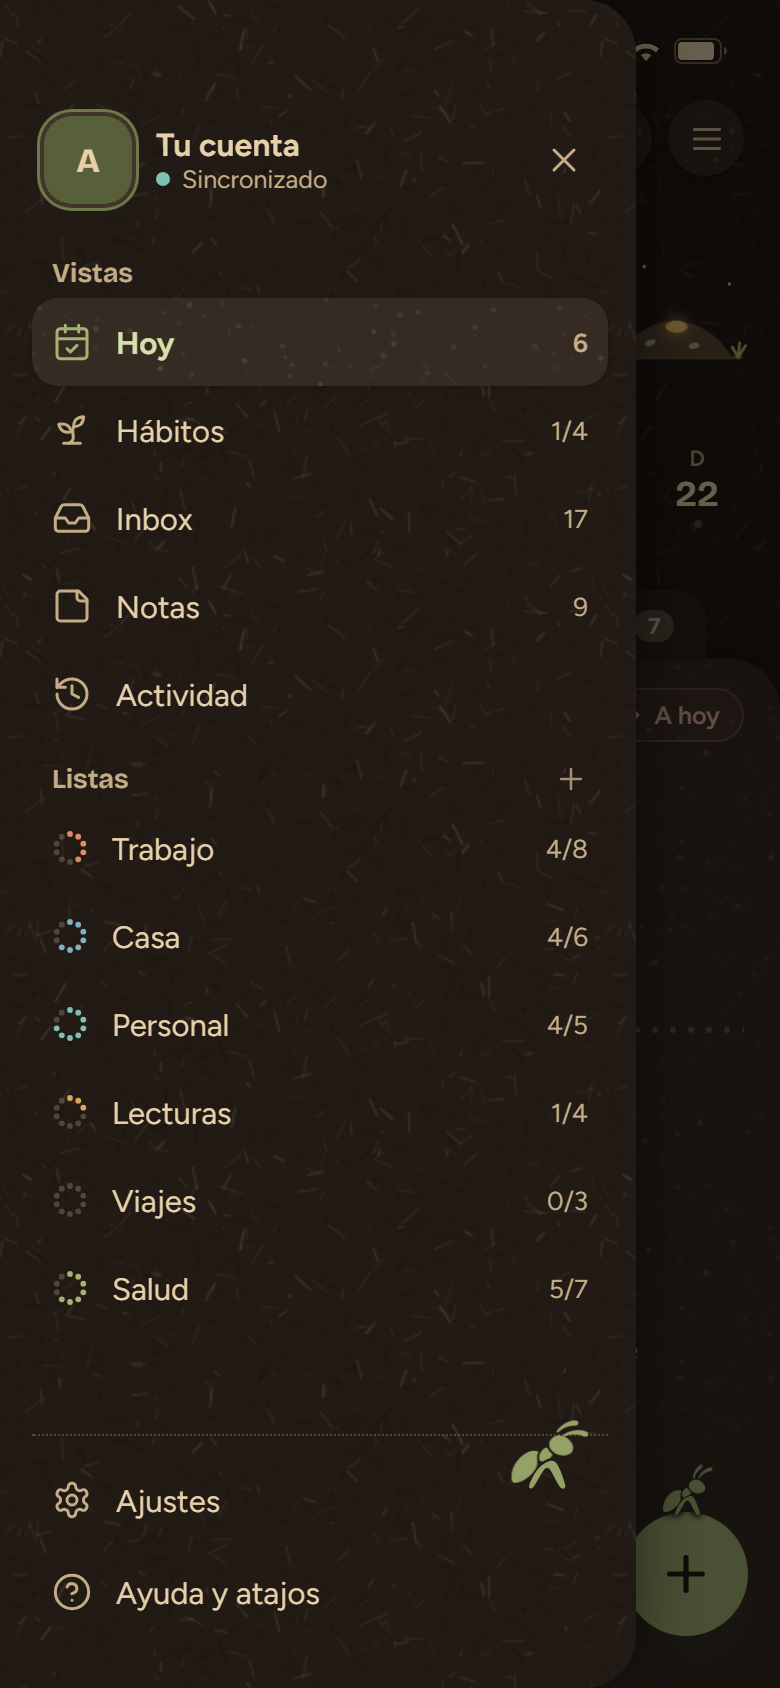
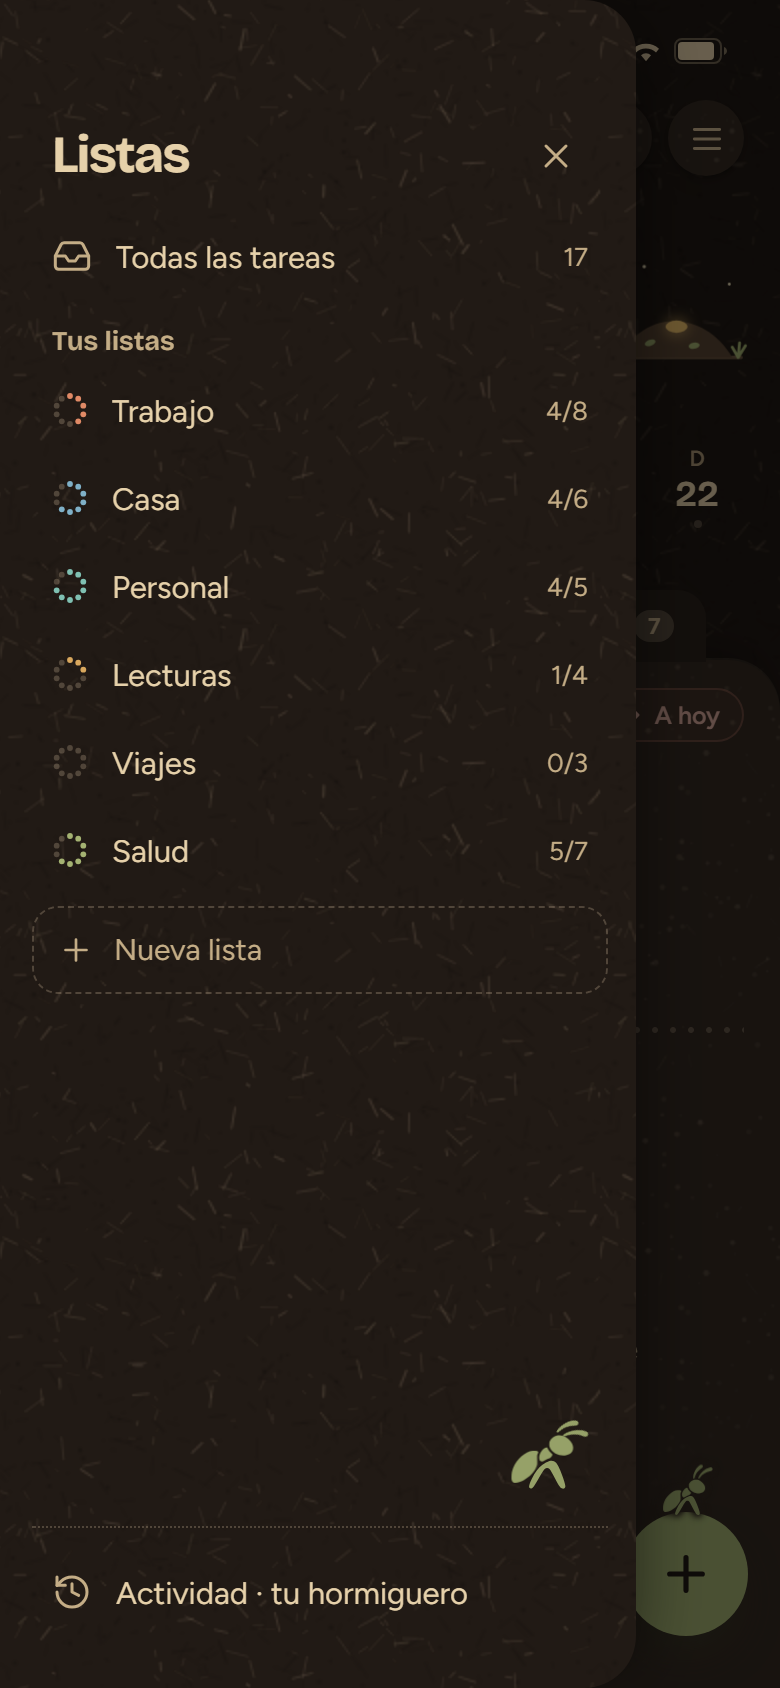
Docs: Ajustes con Apariencia y la hormiga; el menú móvil pasa a panel de listas

diff --git a/docs/disenos/hormiga/movil.html b/docs/disenos/hormiga/movil.html
@@ -486,6 +486,65 @@ a{color:inherit;text-decoration:none}
 .mn-hor{position:absolute;right:22px;bottom:96px;width:44px;height:44px;opacity:.9}
 .mn-hor .hormiga{width:100%;height:100%}
 
+/* ═══ Añadido el 25-nov-2026: Ajustes y Apariencia (móvil) ═══ */
+.aj-cab{display:flex;align-items:center;gap:10px;padding:6px 18px 0 16px}
+.aj-cab .m-tit{margin-top:0;font-size:34px}
+.aj-hoja{position:absolute;left:0;right:0;top:128px;bottom:0;padding:4px 16px 120px;border-radius:26px 26px 0 0;background-color:var(--hoja);background-image:var(--tex-hoja);overflow-y:auto;scrollbar-width:none}
+.aj-sec{margin-top:10px}
+.aj-sec .sec-tit{font-size:15px;color:var(--t2)}
+.aj-card{border-radius:18px;background:var(--hab-bg);border:1px solid var(--borde-s);padding:4px 14px}
+.aj-fila{display:flex;align-items:center;gap:12px;min-height:50px;font-size:15px;color:var(--t1)}
+.aj-fila+.aj-fila{border-top:1.6px dotted var(--punto)}
+.aj-fila>.ico{color:var(--t2)}
+.aj-fila small{display:block;font-size:12.5px;color:var(--t3);margin-top:1px;line-height:1.3}
+.aj-fila .det-valor{margin-left:auto}
+.aj-fila .sw{flex:none;margin-left:auto;position:relative;width:42px;height:25px;border-radius:999px;background:var(--o500);cursor:pointer;transition:background .2s}
+.aj-fila .sw::after{content:"";position:absolute;left:20px;top:3px;width:19px;height:19px;border-radius:50%;background:var(--sobre-acento);box-shadow:0 1px 2px rgba(0,0,0,.25);transition:left .2s}
+.aj-fila .sw.off{background:var(--punto)}
+.aj-fila .sw.off::after{left:3px;background:var(--card)}
+.seg{display:flex;padding:3px;border-radius:999px;background:var(--kraft-hover);border:1px solid var(--borde-s);margin:10px 0 6px}
+.seg span{flex:1;text-align:center;height:34px;line-height:34px;border-radius:999px;font-weight:600;font-size:13.5px;color:var(--t2);cursor:pointer}
+.seg span.on{background:var(--card);color:var(--t1);box-shadow:0 1px 2px rgba(var(--sombra-rgb),.18)}
+.acentos{display:flex;justify-content:space-between;padding:8px 2px 4px}
+.acento{display:flex;flex-direction:column;align-items:center;gap:5px;font-size:11.5px;color:var(--t2);cursor:pointer}
+.acento i{width:36px;height:36px;border-radius:50%;background:var(--c);display:grid;place-items:center;box-shadow:inset 0 0 0 1px rgba(0,0,0,.08)}
+.acento i svg{width:16px;height:16px;fill:none;stroke:#fff;stroke-width:3;stroke-linecap:round;stroke-linejoin:round;opacity:0}
+.acento.on i{box-shadow:0 0 0 2.5px var(--hoja),0 0 0 4.5px var(--c)}
+.acento.on i svg{opacity:1}
+.acento.on{color:var(--t1);font-weight:600}
+/* Vista previa con el acento elegido; la hormiga sigue en oliva (es la marca) */
+.prev{margin:6px 0 10px;border-radius:16px;background:var(--card);border:1px solid var(--borde-s);padding:10px 12px 12px;--a:var(--o500)}
+.prev .rastro-mini{display:block;width:100%;height:auto}
+.prev .tr-f{fill:none;stroke:var(--punto);stroke-width:4;stroke-linecap:round;stroke-dasharray:0 10}
+.prev .tr-h{fill:none;stroke:var(--a);stroke-width:5;stroke-linecap:round;stroke-dasharray:0 10}
+.prev-fila{display:flex;align-items:center;gap:10px;margin-top:6px;font-size:14.5px}
+.prev-fila .ck{width:20px;height:20px;border-radius:50%;background:var(--a);display:grid;place-items:center;flex:none}
+.prev-fila .ck svg{width:12px;height:12px;fill:none;stroke:var(--sobre-acento);stroke-width:3;stroke-linecap:round;stroke-linejoin:round}
+.prev-fila .tx{color:var(--t3);text-decoration:line-through;text-decoration-color:var(--t2)}
+.prev-fila .btn{margin-left:auto;height:30px;padding:0 12px;border-radius:999px;background:var(--a);color:var(--sobre-acento);font-weight:600;font-size:12.5px;display:inline-flex;align-items:center}
+.prev-nota{font-size:12px;color:var(--t3);margin-top:8px;line-height:1.35}
+.estilos{display:grid;grid-template-columns:1fr 1fr;gap:10px}
+.estilo{position:relative;border-radius:16px;padding:8px 8px 10px;background:var(--card);border:1.5px solid var(--borde-s);cursor:pointer}
+.estilo.on{border-color:var(--o500);box-shadow:0 0 0 3px color-mix(in srgb,var(--o500) 18%,transparent)}
+.estilo .mini{height:74px;border-radius:11px;overflow:hidden;display:flex;gap:4px;padding:6px}
+.estilo b{display:block;font:650 14.5px var(--f-disp);margin-top:7px;padding-left:2px}
+.estilo small{display:block;font-size:11.5px;color:var(--t3);padding-left:2px}
+.estilo .pronto{position:absolute;right:8px;top:8px;font-size:10px;font-weight:700;letter-spacing:.04em;text-transform:uppercase;padding:2px 6px;border-radius:6px;background:#2a1d1a;color:#e9c46a}
+.mini.tierra{background:#e7cf9b}
+.mini.tierra .l{width:22%;border-radius:6px;background:rgba(255,250,235,.35)}
+.mini.tierra .h{flex:1;border-radius:8px;background:#fbf4df;padding:7px}
+.mini.tierra .h i{display:block;height:5px;border-radius:3px;background:rgba(107,115,76,.35);margin-bottom:6px}
+.mini.reli{background:radial-gradient(ellipse at 50% 0,#3b2a4f,#120d10 70%)}
+.mini.reli .l{width:22%;border-radius:12px 12px 4px 4px;background:linear-gradient(#2c2520,#1a1512)}
+.mini.reli .h{flex:1;border-radius:4px;border:1px solid #8a6a2c;padding:7px;background:#1c1614}
+.mini.reli .h i{display:block;height:5px;border-radius:2px;background:#c9a44c;opacity:.55;margin-bottom:6px}
+.aj-pie{text-align:center;font-size:12.5px;color:var(--t3);margin:16px 0 0}
+.aj-pie .hormiga{width:30px;height:30px;margin:0 auto 4px}
+/* Panel de listas (antes «menú lateral») */
+.mn-tit{font:700 26px/1 var(--f-disp);letter-spacing:-.03em;padding:6px 10px 10px;display:flex;align-items:center}
+.mn-tit .cerrar{margin-left:auto;width:36px;height:36px;border-radius:50%;display:grid;place-items:center;color:var(--kraft-tinta)}
+.mn-nueva{display:flex;align-items:center;gap:10px;height:44px;padding:0 12px;border-radius:13px;border:1.5px dashed var(--punto-kraft);color:var(--kraft-tinta);font-size:15px;margin-top:6px}
+
 @media (prefers-reduced-motion:reduce){*,*::before,*::after{animation:none!important;transition:none!important}}
 </style>
 </head>
@@ -1174,6 +1233,87 @@ function pantallaMenu(){
   </nav>`;
 }
 Object.assign(P_EXTRA,{captura:pantallaCaptura,buscar:pantallaBuscar,'buscar-vacio':pantallaBuscarVacio,menu:pantallaMenu});
+
+/* ═══ Añadido el 25-nov-2026: Ajustes y Apariencia; el menú pasa a ser solo de listas ═══
+   La barra de abajo es la navegación principal. ☰ abre un panel solo con las
+   listas (y Actividad), y el avatar de la barra abre Ajustes (#ajustes). */
+const ACENTOS=[
+  ['oliva','Oliva','#6b734c','#a4b272'],['arcilla','Arcilla','#9b5c45','#d88f67'],['terracota','Terracota','#ae6950','#e09975'],
+  ['miel','Miel','#a98656','#d9a66a'],['marea','Marea','#4c6c7c','#7eb5cd'],['vino','Vino','#844042','#d28e93']];
+function pantallaAjustes(){
+  const sw=(on=true)=>`<span class="sw${on?'':' off'}" role="switch" aria-checked="${on}"></span>`;
+  const fila_=(ic,tx,sub,der)=>`<div class="aj-fila">${ic?ico(ic,19):''}<div>${tx}${sub?`<small>${sub}</small>`:''}</div>${der}</div>`;
+  const val=v=>`<span class="det-valor">${v} ${ico('derecha',16)}</span>`;
+  const acentos=ACENTOS.map(([id,n,cl,co],i)=>`<span class="acento${i?'':' on'}" data-c="${OSC?co:cl}" style="--c:${OSC?co:cl}"><i>${CK}</i>${n}</span>`).join('');
+  return BARRA_ESTADO+`<div class="aj-cab"><a class="m-herr" href="#hoy"><button aria-label="Volver">${ico('izquierda',20)}</button></a><h1 class="m-tit">Ajustes</h1></div>
+  <div class="aj-hoja">
+    <div class="aj-card" style="margin-top:12px">${fila_('','<b style="font-weight:650">Tu cuenta</b>','Sincronizado hace un momento · 3 dispositivos','<span class="m-av" style="margin-left:auto">A</span>')}</div>
+
+    <div class="aj-sec"><div class="sec-cab"><span class="sec-tit">Apariencia</span><span class="puntos"></span></div>
+      <div class="seg" id="seg-tema"><span class="${OSC?'':'on'}">Automático</span><span>Claro</span><span class="${OSC?'on':''}">Oscuro</span></div>
+      <div class="acentos" id="acentos">${acentos}</div>
+      <div class="prev" id="prev">
+        <svg class="rastro-mini" viewBox="0 0 330 62"><path class="tr-f" d="M8 44 C 60 18, 110 56, 170 38 S 260 18, 290 40"/><path class="tr-h" d="M8 44 C 60 18, 110 56, 150 42"/>
+          <path d="M268 48 C 278 24, 314 24, 324 48 Z" style="fill:var(--tierra-2)"/>${hormiga({x:136,y:14,w:30})}</svg>
+        <div class="prev-fila"><span class="ck">${CK}</span><span class="tx">Pasear a Tango</span><span class="btn">Añadir</span></div>
+        <p class="prev-nota">El acento tiñe el rastro, las casillas y los botones. La hormiga se queda en oliva: es la marca.</p>
+      </div>
+    </div>
+
+    <div class="aj-sec"><div class="sec-cab"><span class="sec-tit">La hormiga</span><span class="puntos"></span></div>
+      <div class="aj-card">
+        ${fila_('','Se lleva la tarea al completarla','Si lo apagas, solo se marca y se tacha.',sw())}
+        ${fila_('','Rastro y hormiguero en Hoy','En lugar del porcentaje.',sw())}
+        ${fila_('','Hormigas en las rachas','Una por cada día cumplido.',sw())}
+        ${fila_('','Ilustraciones en pantallas vacías','',sw())}
+      </div>
+      <p class="prev-nota" style="padding:0 4px">Con «Reducir movimiento» activado en el móvil, la hormiga aparece pero no se mueve.</p>
+    </div>
+
+    <div class="aj-sec"><div class="sec-cab"><span class="sec-tit">Estilo</span><span class="puntos"></span></div>
+      <div class="estilos">
+        <div class="estilo on"><div class="mini tierra"><div class="l"></div><div class="h"><i style="width:70%"></i><i></i><i style="width:55%"></i></div></div><b>Tierra</b><small>Papel, kraft y la hormiga</small></div>
+        <div class="estilo"><span class="pronto">Pronto</span><div class="mini reli"><div class="l"></div><div class="h"><i style="width:70%"></i><i></i><i style="width:55%"></i></div></div><b>Relicario</b><small>Dark fantasy, velas y oro</small></div>
+      </div>
+    </div>
+
+    <div class="aj-sec"><div class="sec-cab"><span class="sec-tit">General</span><span class="puntos"></span></div>
+      <div class="aj-card">
+        ${fila_('campana','Avisos',null,val('Activados'))}
+        ${fila_('cal','La semana empieza en',null,val('Lunes'))}
+        ${fila_('etiqueta','Idioma',null,val('Español'))}
+        ${fila_('copiar','Copia de seguridad',null,val('Exportar'))}
+        ${fila_('ayuda','Ayuda y atajos',null,val(''))}
+      </div>
+    </div>
+    <div class="aj-pie">${hormiga()}AnTrack 2.43.8 · hecho con paciencia de hormiga</div>
+  </div>`+navN('perfil');
+}
+
+// ☰: panel solo de listas (las vistas ya están en la barra de abajo)
+function pantallaMenu(){
+  const ls=[['Trabajo','var(--l-trabajo)',4,8],['Casa','var(--l-casa)',4,6],['Personal','var(--l-personal)',4,5],['Lecturas','var(--l-lect)',1,4],['Viajes','var(--l-viajes)',0,3],['Salud','var(--o500)',5,7]];
+  return pantallaHoy()+`<div class="velo"></div>
+  <nav class="mn" aria-label="Listas">
+    <div class="mn-tit">Listas<a class="cerrar" href="#hoy" aria-label="Cerrar">${ico('cerrar',20)}</a></div>
+    <a>${ico('inbox',20)}<span>Todas las tareas</span><span class="n">17</span></a>
+    <div class="mn-grupo">Tus listas</div>
+    ${ls.map(([n,c,d,t])=>`<a>${anilloLista(d,t,c)}<span>${n}</span><span class="n">${d}/${t}</span></a>`).join('')}
+    <span class="mn-nueva">${ico('plus',18)} Nueva lista</span>
+    <div class="mn-pie"><a>${ico('history',20)}<span>Actividad · tu hormiguero</span></a></div>
+    <span class="mn-hor">${hormiga({cls:'duerme'})}</span>
+  </nav>`;
+}
+Object.assign(P_EXTRA,{menu:pantallaMenu,ajustes:pantallaAjustes,'ajustes-abajo':pantallaAjustes});
+if(estado==='ajustes-abajo')addEventListener('load',()=>{const h=document.querySelector('.aj-hoja');if(h)h.scrollTop=h.scrollHeight;});
+ICOS.izquierda='<path d="m15 18-6-6 6-6"/>';
+document.addEventListener('click',e=>{
+  const a=e.target.closest('.acento');
+  if(a){document.querySelectorAll('.acento').forEach(x=>x.classList.toggle('on',x===a));document.getElementById('prev').style.setProperty('--a',a.dataset.c);return;}
+  const sg=e.target.closest('#seg-tema span');if(sg){document.querySelectorAll('#seg-tema span').forEach(x=>x.classList.toggle('on',x===sg));return;}
+  const w=e.target.closest('.aj-fila .sw');if(w){w.classList.toggle('off');return;}
+  if(e.target.closest('.m-nav .m-av'))location.hash='ajustes';
+});
 
 document.addEventListener('click',e=>{if(e.target.closest('.velo')){location.hash='hoy';return;}if(e.target.closest('.m-fab')){location.hash=document.body.classList.contains('e-notas')?'notas':'captura';return;}const b=e.target.closest('.m-herr button');if(b&&b.innerHTML.includes('M4 6h16')){location.hash='menu';return;}if(b&&b.getAttribute('aria-label')==='Buscar'||b&&b.innerHTML.includes('m21 21-4.3'))location.hash='buscar';});
 /* ═══ Arranque ═══ */

diff --git a/docs/disenos/hormiga/LEEME.md b/docs/disenos/hormiga/LEEME.md
@@ -161,3 +161,14 @@ Por eso se han rehecho todas las capturas de PC, más `agenda`, `notas`, `inbox-
 - **`#menu`**: el menú lateral (☰) en kraft: perfil y sincronización, vistas con contadores, listas con su anillo y «+» para crear, y Ajustes y Ayuda abajo, con la hormiga dormida.
 - En la maqueta, el + abre la captura, ☰ abre el menú, la lupa abre la búsqueda y tocar el velo cierra.
 - Capturas: `movil-captura.png`, `movil-buscar.png`, `movil-buscar-vacio.png`, `movil-menu.png` y sus `-oscuro`.
+
+## Añadido el 25-nov-2026: Ajustes y panel de listas (móvil)
+
+- **Navegación:** la barra de abajo es la navegación principal (Hoy · Inbox · Notas · perfil). El menú ☰ ya no repite esas vistas: es un **panel de listas** (`#menu`), con «Todas las tareas», tus listas con su anillo, «Nueva lista» y Actividad abajo.
+- **`#ajustes`** (al tocar el avatar de la barra) y **`#ajustes-abajo`**:
+  - la cuenta y la sincronización arriba;
+  - **Apariencia:** tema (Automático · Claro · Oscuro) y los 6 acentos de la app, con una vista previa que cambia al tocar cada uno. **Decisión:** el acento tiñe el rastro, las casillas y los botones; la hormiga se queda siempre en oliva, porque es la marca;
+  - **La hormiga:** interruptores para que se lleve la tarea, el rastro en Hoy, las hormigas en las rachas y las ilustraciones de pantallas vacías. Con «Reducir movimiento» del sistema, aparece pero no se mueve;
+  - **Estilo:** Tierra (el actual) y Relicario («Pronto»), con una miniatura de cada uno;
+  - **General:** avisos, inicio de semana, idioma, copia de seguridad y ayuda.
+- Capturas: `movil-ajustes.png`, `movil-ajustes-abajo.png`, `movil-menu.png` (rehecha) y sus `-oscuro`.
